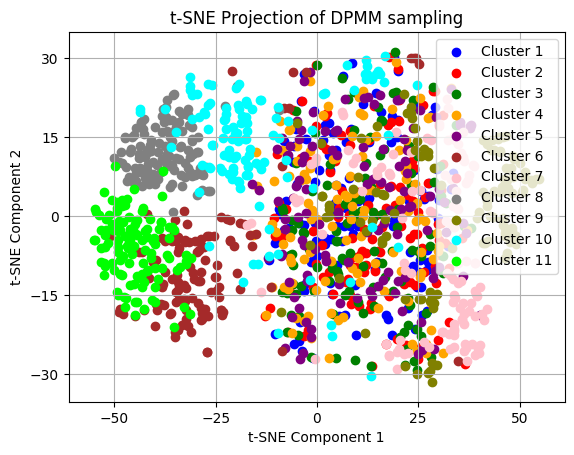
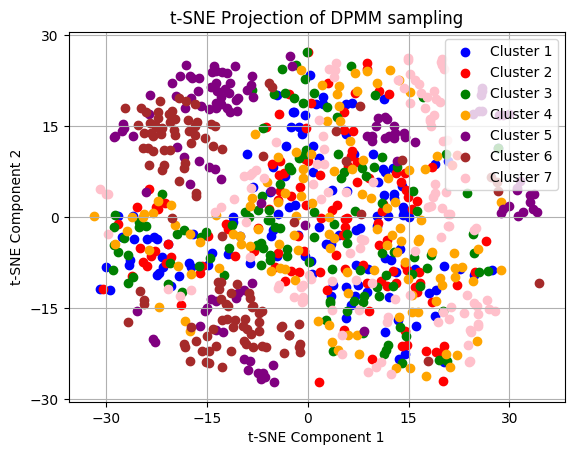
Fixed the HRL procedure

diff --git a/spirl/configs/skill_prior_learning/kitchen/spirl_DPMM_h_cl_v3/conf.py b/spirl/configs/skill_prior_learning/kitchen/spirl_DPMM_h_cl_v3/conf.py
@@ -1,0 +1,38 @@
+import os
+
+from spirl.models.CL_SPIRL_DIVA_mdl import SPiRL_DIVAMdl
+from spirl.components.logger import Logger
+from spirl.utils.general_utils import AttrDict
+from spirl.configs.default_data_configs.kitchen import data_spec
+from spirl.components.evaluator import TopOfNSequenceEvaluator
+
+current_dir = os.path.dirname(os.path.realpath(__file__))
+
+
+configuration = {
+    'model': SPiRL_DIVAMdl, 
+    'logger': Logger,
+    'data_dir': '.',
+    'epoch_cycles_train': 50,
+    'num_epochs': 200,
+    'evaluator': TopOfNSequenceEvaluator,
+    'top_of_n_eval': 100,
+    'top_comp_metric': 'mse',
+}
+configuration = AttrDict(configuration)
+
+model_config = AttrDict(
+    state_dim=data_spec.state_dim,
+    action_dim=data_spec.n_actions,
+    n_rollout_steps=10,
+    kl_div_weight=5e-4,
+    nz_enc=128,
+    nz_mid=128,
+    n_processing_layers=5,
+    cond_decode=True,
+)
+
+# Dataset
+data_config = AttrDict()
+data_config.dataset_spec = data_spec
+data_config.dataset_spec.subseq_len = model_config.n_rollout_steps + 1  # flat last action from seq gets cropped

diff --git a/spirl/configs/hrl/kitchen/spirl_cl_DPMM/conf.py b/spirl/configs/hrl/kitchen/spirl_cl_DPMM/conf.py
@@ -8,13 +8,13 @@ ll_model_params.cond_decode = True
 
 # create LL closed-loop policy
 ll_policy_params = AttrDict(
-    #policy_model=SPiRL_DIVAMdl, 
-    policy_model=ClSPiRLMdl, # Original code
+    policy_model=SPiRL_DIVAMdl, 
+    #policy_model=ClSPiRLMdl, # Original code
     policy_model_params=ll_model_params,
-    policy_model_checkpoint=os.path.join(os.environ["EXP_DIR"],
-                                         "skill_prior_learning/kitchen/hierarchical_cl"), # OriginalCode
     #policy_model_checkpoint=os.path.join(os.environ["EXP_DIR"],
-                                         #"skill_prior_learning/kitchen/spirl_DPMM_h_cl"),
+                                         #"skill_prior_learning/kitchen/hierarchical_cl"), # OriginalCode
+    policy_model_checkpoint=os.path.join(os.environ["EXP_DIR"],
+                                         "skill_prior_learning/kitchen/spirl_DPMM_h_cl"),
 )
 ll_policy_params.update(ll_model_params)
 

diff --git a/spirl/rl/envs/kitchen.py b/spirl/rl/envs/kitchen.py
@@ -17,7 +17,7 @@ class KitchenEnv(GymEnv):
 
     def step(self, *args, **kwargs):
         obs, rew, done, info = super().step(*args, **kwargs)
-        return obs, np.float64(rew), done, self._postprocess_info(info)     # casting reward to float64 is important for getting shape later
+        return obs, np.float64(rew), done, info #self._postprocess_info(info)  # casting reward to float64 is important for getting shape later
 
     def reset(self):
         self.solved_subtasks = defaultdict(lambda: 0)

diff --git a/DPMM_vis.py b/DPMM_vis.py
@@ -30,7 +30,7 @@ import matplotlib.pyplot as plt
 import matplotlib.markers as mark
 from sklearn.manifold import TSNE
 # Path to the checkpoint
-checkpoint_path = './experiments/skill_prior_learning/kitchen/spirl_DPMM_h_cl_v2/weights/weights_ep65.pth'
+checkpoint_path = './experiments/skill_prior_learning/kitchen/spirl_DPMM_h_cl_v2/weights/weights_ep99.pth'
 
 # Load checkpoint
 checkpoint = torch.load(checkpoint_path)

diff --git a/spirl/configs/skill_prior_learning/kitchen/spirl_DPMM_h_cl_v3/README.md b/spirl/configs/skill_prior_learning/kitchen/spirl_DPMM_h_cl_v3/README.md
@@ -1,0 +1,27 @@
+# SPiRL w/ Closed-Loop Skill Decoder
+
+This version of the SPiRL model uses a [closed-loop action decoder](../../../../models/closed_loop_spirl_mdl.py): 
+in contrast to the original SPiRL model it takes the current environment state as input in every skill decoding step. 
+
+We find that this model improves performance over the original
+SPiRL model, particularly on tasks that require precise control, like in the kitchen environment.
+
+<p align="center">
+<img src="../../../../../docs/resources/kitchen_results_cl.png" width="400">
+</p>
+</img>
+
+For an implementation of the closed-loop SPiRL model that supports image observations, 
+see [here](../../block_stacking/hierarchical_cl/README.md).
+
+## Example Commands
+
+To train the SPiRL model with closed-loop action decoder on the kitchen environment, run the following command:
+```
+python3 spirl/train.py --path=spirl/configs/skill_prior_learning/kitchen/spirl_DPMM_h_cl_v3 --val_data_size=160
+```
+
+To train a downstream task policy with RL using the closed-loop SPiRL model we just trained, run the following command:
+```
+python3 spirl/rl/train.py --path=spirl/configs/hrl/kitchen/spirl_cl --seed=0 --prefix=SPIRLv2_kitchen_seed0
+```
